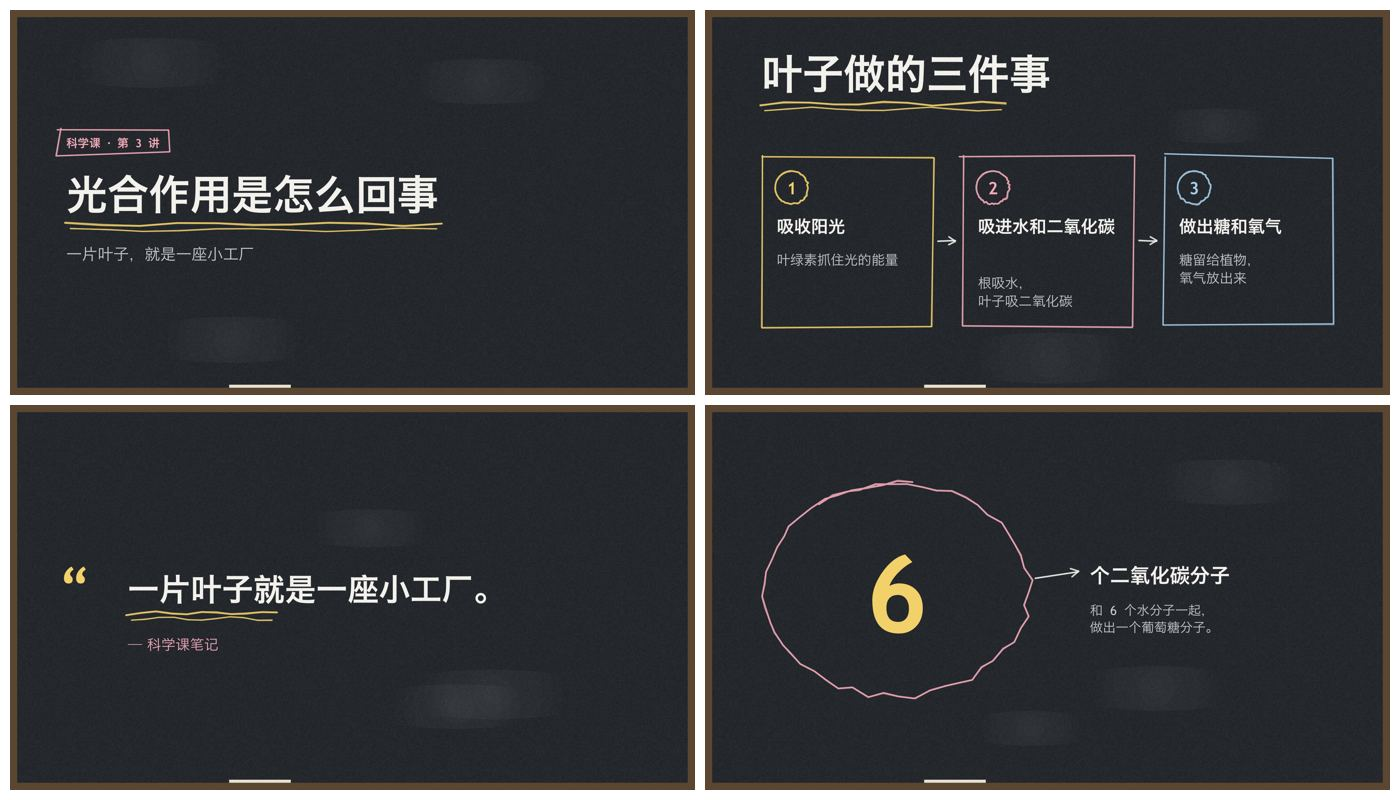
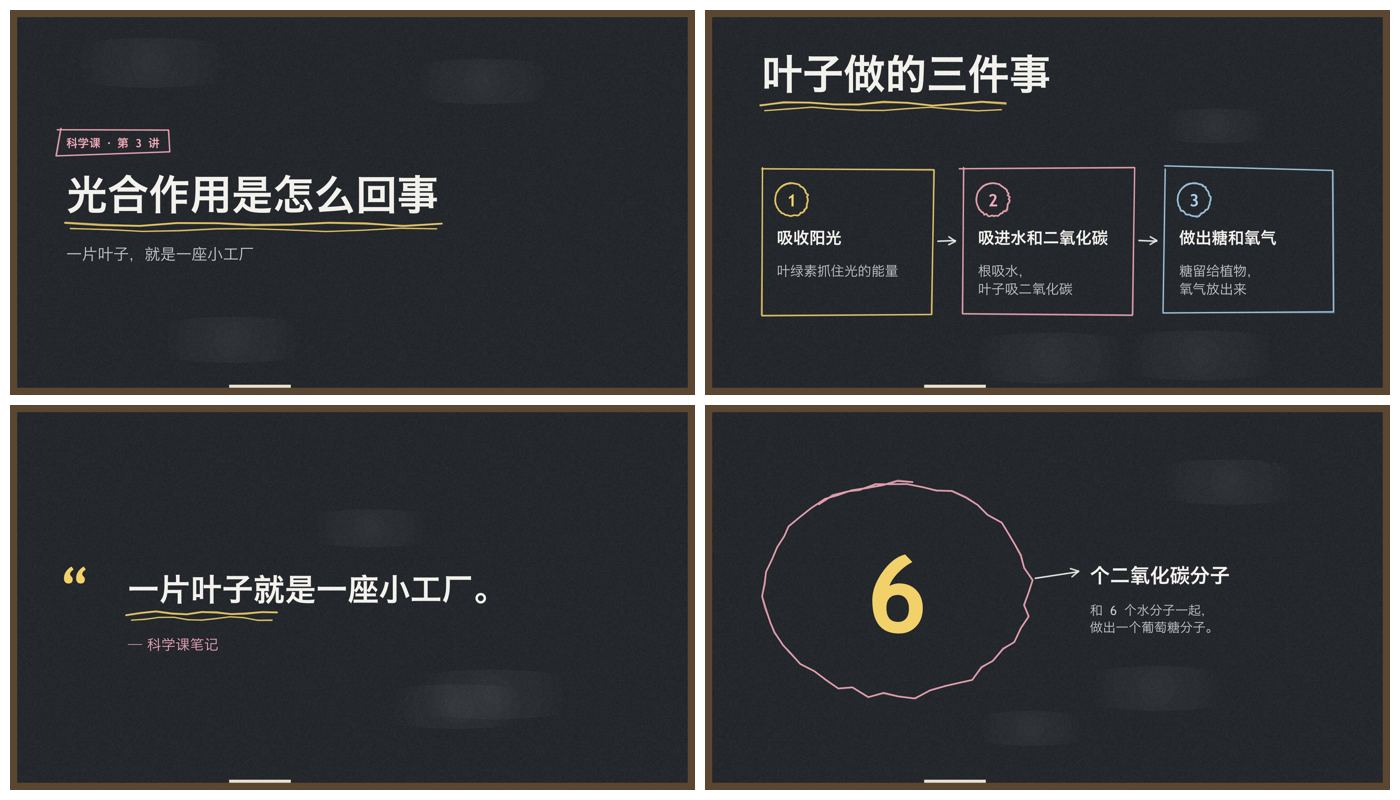
native languages (stress renders): Chinese breaks only at clause marks, short heads stay on one line, a long image page fits a square broadsheet, chalk rows give way to the grid

Changed region(s): [[0.5221, 0.1875, 0.9521, 0.4375], [0.5529, 0.375, 0.5836, 0.4375]]

diff --git a/skills/slide-maker/scripts/vl_native2.py b/skills/slide-maker/scripts/vl_native2.py
@@ -24,25 +24,59 @@ import vl_native as _vn
 HEADROOM = 0.97      # words are measured in 97% of a column and drawn at its full width (see flow)
 
 
-_CLAUSE_FIELDS = ("item_line", "item_head", "body", "note", "caption", "abstract", "margin", "inside", "authors")
+_CLAUSE_FIELDS = ("title", "subtitle", "quote", "label", "line", "note", "body", "caption", "item_head", "item_line",
+                  "abstract", "margin", "authors")
+
+
+def _cjk_width(k, f_, t, sz):
+    base, role, bold = vl.TYPE[k.name][f_][:3]
+    return dk._natural_width_in([(t, bool(bold))], sz, k.ea_face(role, t) or k.face(role))
 
 
 def _clause_break(k, f_, t, w, start):
-    """A Chinese/Japanese body that will wrap breaks at the clause mark nearest its middle ("根吸水，/ 叶子吸二氧化碳"),
-    never leaving a character alone on its last line ("…二氧化 / 碳", sample render 2026-10-08). The display fields
-    (title, quote, label, line, subtitle) already break this way in vl._flow; these are the body fields it leaves."""
+    """Chinese or Japanese that will wrap is packed CLAUSE by clause — each line as many whole clauses as fit — so it
+    breaks only at its clause marks: "来访者握着螺丝刀，/ 志愿者只在旁边指导，/ 这就是…" (a square board's quote read
+    "…只在旁边指 / 导，…") and never leaves one character alone ("…二氧化 / 碳", sample render 2026-10-08) — at the
+    largest size, down to the field's floor, at which every clause fits a line (clean breaks beat a bigger size). Returns
+    (text, size or None); a clause too long even then, or text with no clause mark, is left for the flow to wrap."""
     if f_ not in _CLAUSE_FIELDS or not t or "\n" in t or not dk._has_cjk(t):
-        return t
-    base, role, bold = vl.TYPE[k.name][f_][:3]
+        return t, None
+    clauses = _vn._clauses(t)
+    if len(clauses) < 2:
+        return t, None
+    base, _role, _b, _c, _i, floor = vl.TYPE[k.name][f_]
     sz = (start or {}).get(f_, base * ctx(k)[2])
-    face = k.ea_face(role, t) or k.face(role)
-    if dk.measure_text([(t, bool(bold))], w, sz, font=face) <= dk.measure_text([(t, bool(bold))], 1000.0, sz, font=face) + 1e-6:
-        return t                                   # one line: nothing to break
-    marks = [i for i, ch in enumerate(t[:-1]) if ch in _vn._CLAUSE_MARKS]
-    if not marks:
-        return t
-    i = min(marks, key=lambda m: abs(m + 1 - len(t) / 2.0))
-    return t[:i + 1] + "\n" + t[i + 1:]
+    room = w - dk.TEXT_INSET_LR
+    if _cjk_width(k, f_, t, sz) <= room:
+        return t, None                             # one line: nothing to break
+    widest = max(_cjk_width(k, f_, c, sz) for c in clauses)
+    z = sz if widest <= room else sz * room / widest * 0.98
+    if z < floor * ctx(k)[2]:
+        return t, None
+    lines = [""]
+    for c in clauses:
+        if lines[-1] and _cjk_width(k, f_, lines[-1] + c, z) > room:
+            lines.append(c)
+        else:
+            lines[-1] += c
+    return ("\n".join(lines), (z if z < sz else None)) if len(lines) > 1 else (t, None)
+
+
+def _one_line_size(k, f_, t, w, start):
+    """A short Chinese/Japanese head (no clause mark) a little too wide for its line is set a little smaller, on ONE
+    line — wrapped, it left one character alone ("记下每次修 / 理"). None when it fits, or would need below 75% of its size
+    or its floor (then it wraps, and a layout that cares refuses — chalkboard's row gives way to its grid)."""
+    if f_ != "item_head" or not t or "\n" in t or not dk._has_cjk(t) or len(t) > 12:
+        return None
+    base, _role, _b, _c, _i, floor = vl.TYPE[k.name][f_]
+    s_ = ctx(k)[2]
+    sz = (start or {}).get(f_, base * s_)
+    room = w - dk.TEXT_INSET_LR
+    nat = _cjk_width(k, f_, t, sz)
+    if nat <= room:
+        return None
+    fit = sz * room / nat * 0.98
+    return fit if fit >= max(0.75 * sz, floor * s_) else None
 
 
 def flow(k, slide, page, col, items, **kw):
@@ -54,7 +88,17 @@ def flow(k, slide, page, col, items, **kw):
     align = kw.get("align", "l")
     wm = w * HEADROOM
     dw = w - wm
-    items = [(f_, _clause_break(k, f_, t, wm, kw.get("start"))) for f_, t in items]
+    packed = []
+    for f_, t in items:
+        t2, z = _clause_break(k, f_, t, wm, kw.get("start"))
+        packed.append((f_, t2))
+        if z:
+            kw = dict(kw, start=dict(kw.get("start") or {}, **{f_: z}))
+    items = packed
+    for f_, t in items:
+        z = _one_line_size(k, f_, t, wm, kw.get("start"))
+        if z:
+            kw = dict(kw, start=dict(kw.get("start") or {}, **{f_: z}))
     rects, draw = _vn.flow(k, slide, page, (x + dw / 2.0 if align == "c" else x, y, wm, h), items, **kw)
     out = {f_: ((r[0] - dw / 2.0, r[1], r[2] + dw, r[3]) if align == "c" else (r[0], r[1], r[2] + dw, r[3]))
            for f_, r in rects.items()}
@@ -550,14 +594,14 @@ def _bs_section(k, slide, f, image):
 @register("broadsheet", "image_text", alts=2)
 def _bs_image_text(k, slide, f, image):
     """A news photograph with its caption under a hairline; the story's headline and body beside it (under it in
-    portrait)."""
+    portrait). Long copy: the words get more of the page — on a square board the story moves beside the photo."""
     W, H, s, o = ctx(k)
     top = bs_strip(k, slide, f) + 0.25 * s
     bottom = H - 0.6
     cap = text_of(f, "caption")
     rects, draws, art = {}, [], []
-    if o == "land":
-        img_x, img_w = 0.05 * W, (0.58 if alt() == 0 else 0.50) * W
+    if o == "land" or (alt() == 1 and W >= 0.8 * H):
+        img_x, img_w = 0.05 * W, (0.58 if alt() == 0 else 0.46) * W
         cx0 = img_x + img_w + 0.35 * s
         col = (cx0, top, 0.95 * W - cx0, bottom - top)
         img_y1 = bottom
@@ -1332,6 +1376,25 @@ def _cb_points(k, slide, f, image):
     bw = (0.84 * W - (ncol - 1) * gap) / ncol
     above = ncol == n and n > 1                       # one row: the number sits above the words, else beside them
 
+    head_start = {}
+    if ncol == n and n > 1:
+        # a row of narrow boxes only when every head still reads as a head — a Chinese one on one line, a Latin one in
+        # at most two — at one shared size no smaller than 75% of the field's; else the grid takes over (stress render:
+        # "共享工 / 具", "Write / every / repair / down")
+        base_h, role_h, bold_h = vl.TYPE[k.name]["item_head"][:3]
+        tw_ = (bw - 2 * pad) * HEADROOM - dk.TEXT_INSET_LR
+
+        def head_lines(hd, z_):
+            face_ = k.ea_face(role_h, hd) or k.face(role_h)
+            return dk._measure_lines([(hd, bool(bold_h))], z_, tw_, font=face_)
+        z_ = base_h * s
+        while any(head_lines(hd, z_) > (1 if dk._has_cjk(hd) else 2) for hd, _ln in pts):
+            z_ *= 0.95
+            if z_ < 0.75 * base_h * s:
+                raise vl.VLTextOverflow("chalkboard.points(): {} boxes in a row are too narrow for their heads — the "
+                                        "grid takes over".format(n))
+        head_start = {"item_head": z_}
+
     def plan_box(i, y, h):
         hd, ln = pts[i]
         x = 0.08 * W + (i % ncol) * (bw + gap)
@@ -1339,7 +1402,8 @@ def _cb_points(k, slide, f, image):
             tcol = (x + pad, y + pad + numd + 0.15 * s, bw - 2 * pad, h - (2 * pad + numd + 0.15 * s))
         else:
             tcol = (x + pad + numd + 0.25 * s, y + pad, bw - 2 * pad - numd - 0.25 * s, h - 2 * pad)
-        return flow(k, slide, "points", tcol, [(x_, t) for x_, t in (("item_head", hd), ("item_line", ln)) if t], anchor="top")
+        return flow(k, slide, "points", tcol, [(x_, t) for x_, t in (("item_head", hd), ("item_line", ln)) if t], anchor="top",
+                    start=head_start or None)
     # pass 1: each row's height from its boxes' own words; pass 2: the rows centred in the room under the title. A
     # grid's narrow boxes try the number beside the words first, then above them (a square board, 2026-10-08)
     slot = (bottom - top - (nrow - 1) * gap) / nrow

diff --git a/skills/slide-maker/tests/test_native_languages_p4.py b/skills/slide-maker/tests/test_native_languages_p4.py
@@ -627,6 +627,49 @@ frame = [rect_of(sh) for sh in s.shapes if not getattr(sh, "has_text_frame", Fal
 check(len(frame) >= 5 and x > 0.14 and x + w < 13.333 - 0.14 and y + h < 7.5 - 0.14,
       "chalkboard: an ordinary page is a framed board; content inside the frame")
 
+# image pages with realistic long copy build on every canvas (the corpus covers the six text pages; the stress render
+# found broadsheet's image page refused on a square board)
+LONGIT = {"en": dict(kicker="Annual review of the repair network", title="Why every street deserves a place to fix what it already owns",
+                     body="Screwdrivers, a soldering iron and thread, shared on every bench.", caption="The hall on a Tuesday"),
+          "zh": dict(kicker="社区修理网络 · 年度回顾", title="为什么每条街道都值得拥有一个修理自己物品的地方",
+                     body="工作台上有螺丝刀、烙铁和针线，大家共用。", caption="周二晚上的会场")}
+for name in ("starlit", "broadsheet", "journal", "tally", "chalkboard"):
+    for W, H in ((10.0, 5.625), (10.0, 7.5), (7.5, 7.5), (8.27, 11.69)):
+        for lang, T in LONGIT.items():
+            prs, k = use(name, W, H)
+            try:
+                ex = ({"masthead": "街坊修理周报" if lang == "zh" else "The Repair Weekly", "edition": "No. 12"} if name == "broadsheet"
+                      else {"running": "社区修理网络年度回顾" if lang == "zh" else "Repair network review"} if name == "journal" else {})
+                k.image_text(k.new_slide(), image=PHOTO, **T, **ex)
+                with contextlib.redirect_stdout(io.StringIO()):
+                    crit = [f_ for f_ in dk.lint_layout(prs, verbose=False) if f_[1] == "CRITICAL"]
+                check(not crit, "{} {}x{} {}: a long image page has no critical fault: {}".format(name, W, H, lang, crit[:1]))
+            except vl.VLTextOverflow as e:
+                check(False, "{} {}x{} {}: a long image page was refused: {}".format(name, W, H, lang, str(e)[:100]))
+
+# Chinese with clause marks breaks only at them (stress render: a square board's quote read "…只在旁边指 / 导，…"); a short
+# Chinese head stays on one line rather than leaving one character alone ("记下每次修 / 理"); four chalk boxes too narrow
+# for their heads give way to the grid
+prs, k = use("chalkboard", 7.5, 7.5)
+s = k.new_slide()
+k.quote(s, quote="来访者握着螺丝刀，志愿者只在旁边指导，这就是整个夜晚的意义所在。", attribution="志愿者手册")
+qp = [tuple(p_.text for p_ in sh.text_frame.paragraphs) for sh in texts(s) if "螺丝刀" in sh.text_frame.text][0]
+check(len(qp) > 1 and all(p_.endswith(("，", "。")) for p_ in qp), "a Chinese quote that wraps breaks only at its clause marks: {}".format(qp))
+for name in ("broadsheet", "starlit"):
+    prs, k = use(name, 10.0, 7.5)
+    s = k.new_slide()
+    k.points(s, title="修理之夜", items=[("共享工具", "一抽屉螺丝刀。"), ("敞开大门", "不用预约。"), ("步行可达", "十分钟。"), ("记下每次修理", "每张桌一本笔记。")])
+    hd = [sh for sh in texts(s) if sh.text_frame.text == "记下每次修理"][0]
+    sz = hd.text_frame.paragraphs[0].runs[0].font.size.pt
+    check(hd.height / EMU <= sz / 72.0 * 1.6 + 0.08, "{}: a short Chinese head stays on one line ({:.2f}in at {}pt)".format(name, hd.height / EMU, sz))
+prs, k = use("chalkboard", 10.0, 7.5)
+s = k.new_slide()
+k.points(s, title="修理之夜", items=[("共享工具", "一抽屉螺丝刀可以供三张桌子同时使用。"), ("敞开大门", "不用预约，不收费。"),
+                                     ("步行可达", "步行十分钟是我们坚持的距离。"), ("记下每次修理", "每张桌一本笔记。")])
+heads = [sh for sh in texts(s) if sh.text_frame.text in ("共享工具", "敞开大门", "步行可达", "记下每次修理")]
+check(all(h_.height / EMU <= h_.text_frame.paragraphs[0].runs[0].font.size.pt / 72.0 * 1.6 + 0.08 for h_ in heads),
+      "chalkboard 4:3: no head wraps in a too-narrow box (the grid takes over)")
+
 # ── what an agent reading only the docs needs (Task 9) ──
 ref = (ROOT / "references" / "visual-languages.md").read_text(encoding="utf-8")
 for n in ("starlit", "broadsheet", "journal", "tally", "chalkboard"):
